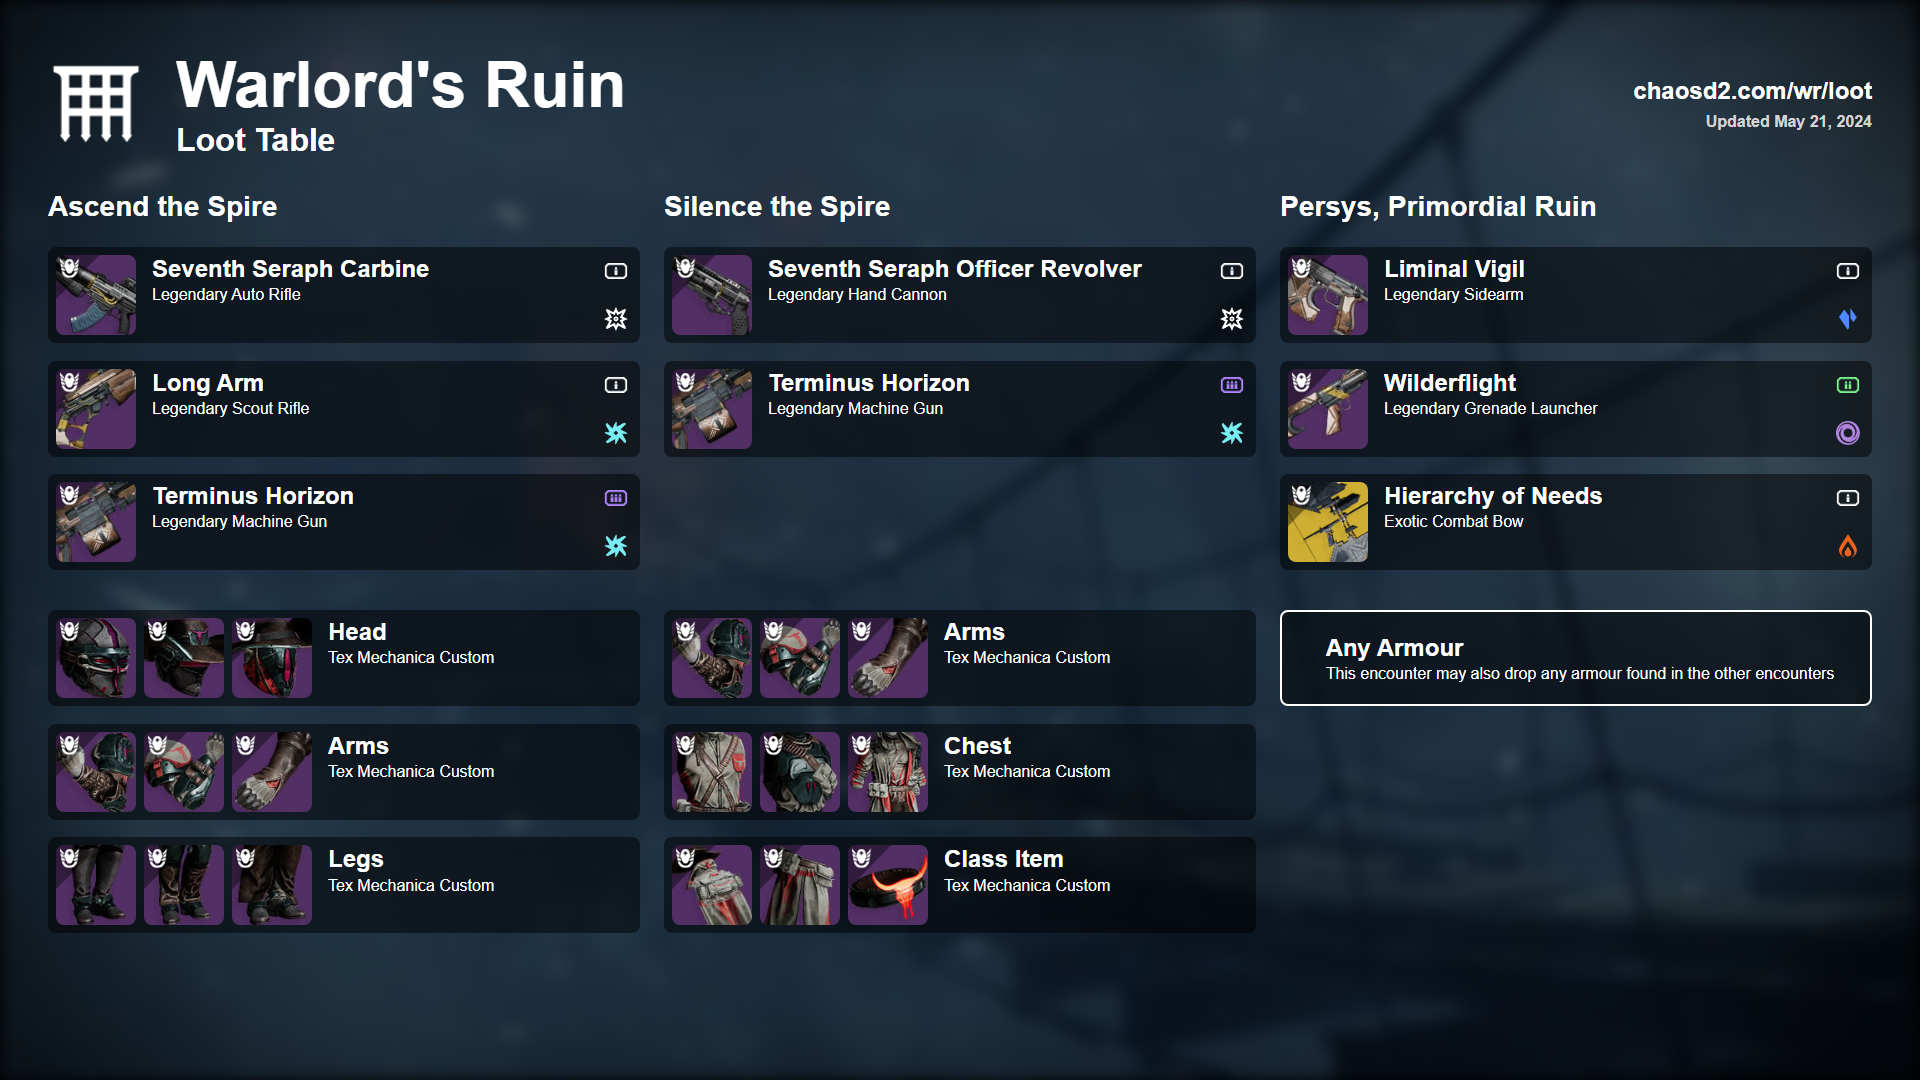
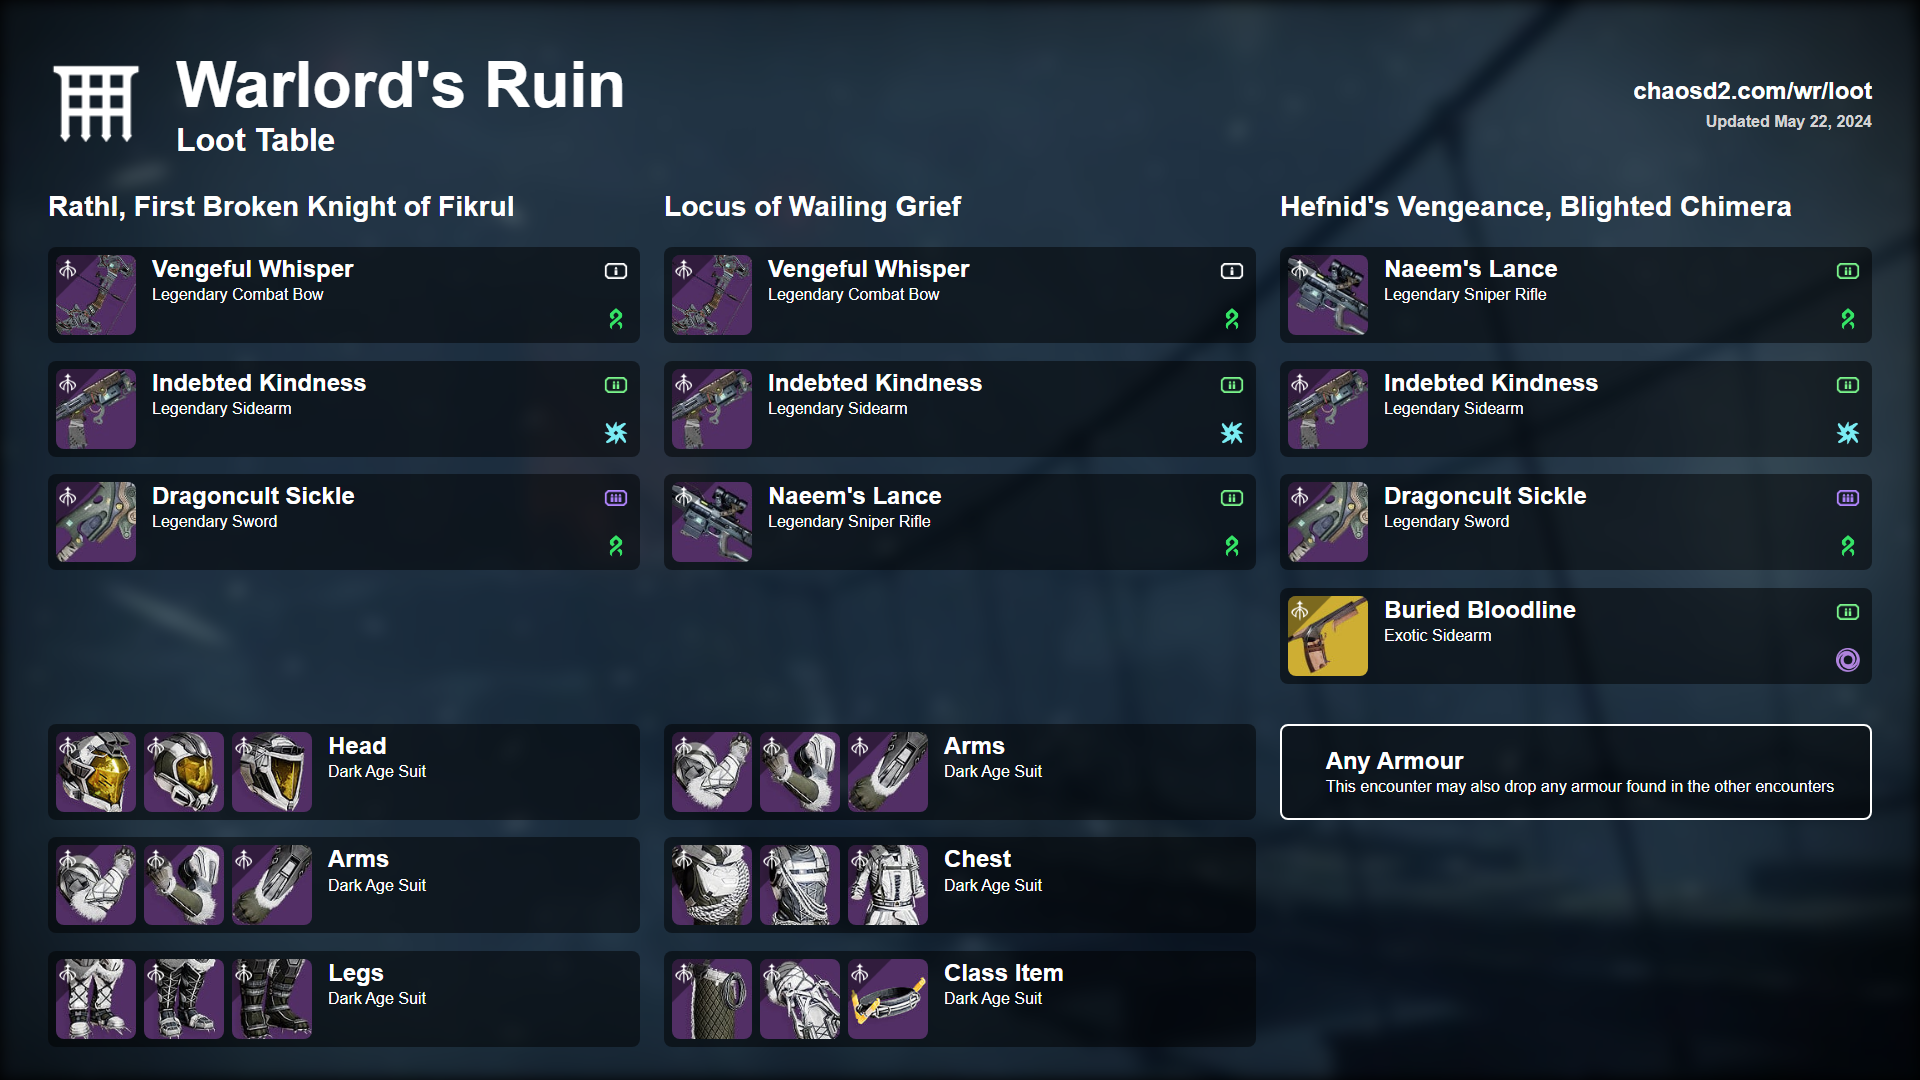
Added Warlord's Ruin Loot Table

diff --git a/src/app/image_sources/dungeons/warlords_ruin/loot/page.js b/src/app/image_sources/dungeons/warlords_ruin/loot/page.js
@@ -12,11 +12,11 @@ export const metadata = {
 const data = {
     encounters: [
         {
-            name: "Ascend the Spire",
+            name: "Rathl, First Broken Knight of Fikrul",
             "items": [
-                "4070357005",
-                "8293111",
-                "487205709"
+                "839344841",
+                "3381450498",
+                "3668817296"
             ],
             "armour": [
                 "Head",
@@ -25,10 +25,11 @@ const data = {
             ]
         },
         {
-            name: "Silence the Spire",
+            name: "Locus of Wailing Grief",
             "items": [
-                "1555959830",
-                "487205709",
+                "839344841",
+                "3381450498",
+                "2806569825"
             ],
             "armour": [
                 "Arms",
@@ -37,43 +38,44 @@ const data = {
             ]
         },
         {
-            name: "Persys, Primordial Ruin",
+            name: "Hefnid's Vengeance, Blighted Chimera",
             "items": [
-                "3138208275",
-                "2306182339",
-                "4174431791"
+                "2806569825",
+                "3381450498",
+                "3668817296",
+                "3886719505"
             ],
             "armour": [
             ]
         }
     ],
     armour: {
-        set: "Tex Mechanica Custom",
+        set: "Dark Age Suit",
         hashes: {
             "Head": [
-                "2976233114",
-                "2599025960",
-                "2014814167"
+                "4090037601",
+                "2771011469",
+                "1933599476"
             ],
             "Arms": [
-                "918537443",
-                "1480429241",
-                "1088225118"
+                "632989816",
+                "3423574140",
+                "806004493"
             ],
             "Chest": [
-                "597199405",
-                "3088058655",
-                "3185363346"
+                "3735435664",
+                "3683772388",
+                "851401651"
             ],
             "Legs": [
-                "2839517205",
-                "119121067",
-                "1932168248"
+                "2963224754",
+                "2426502022",
+                "1476803535"
             ],
             "Class Item": [
-                "3006077984",
-                "506181038",
-                "3780604323"
+                "2662590925",
+                "557092665",
+                "3056827626"
             ]
         }
     }
